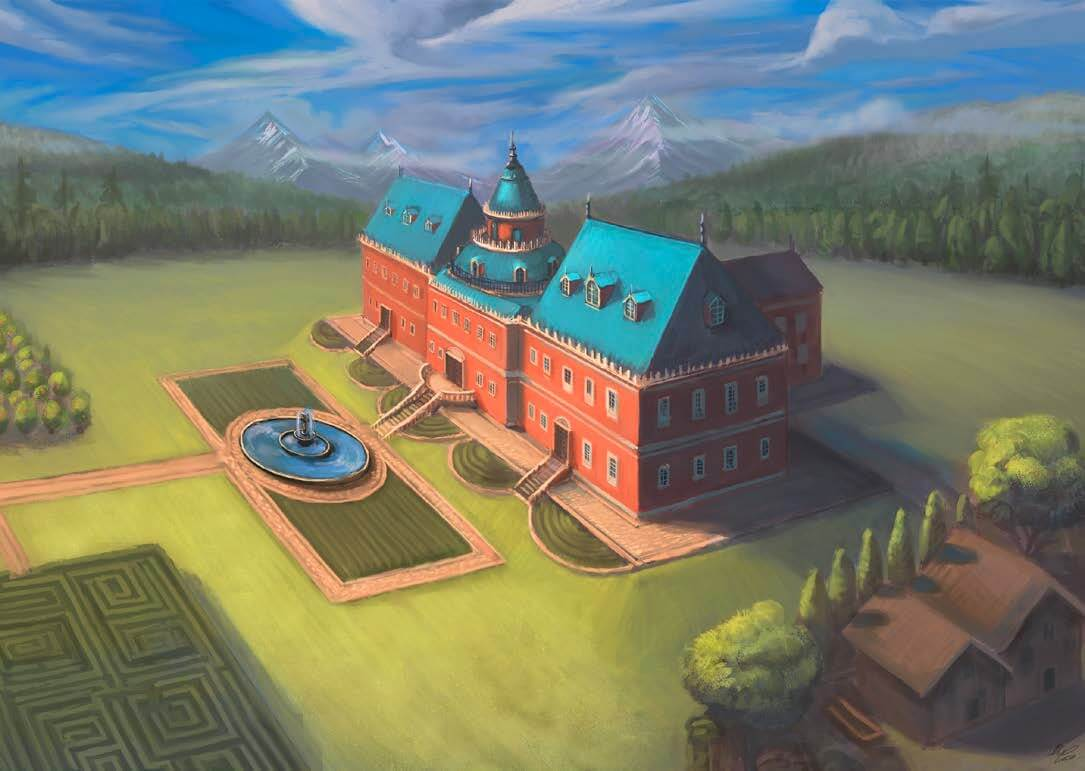
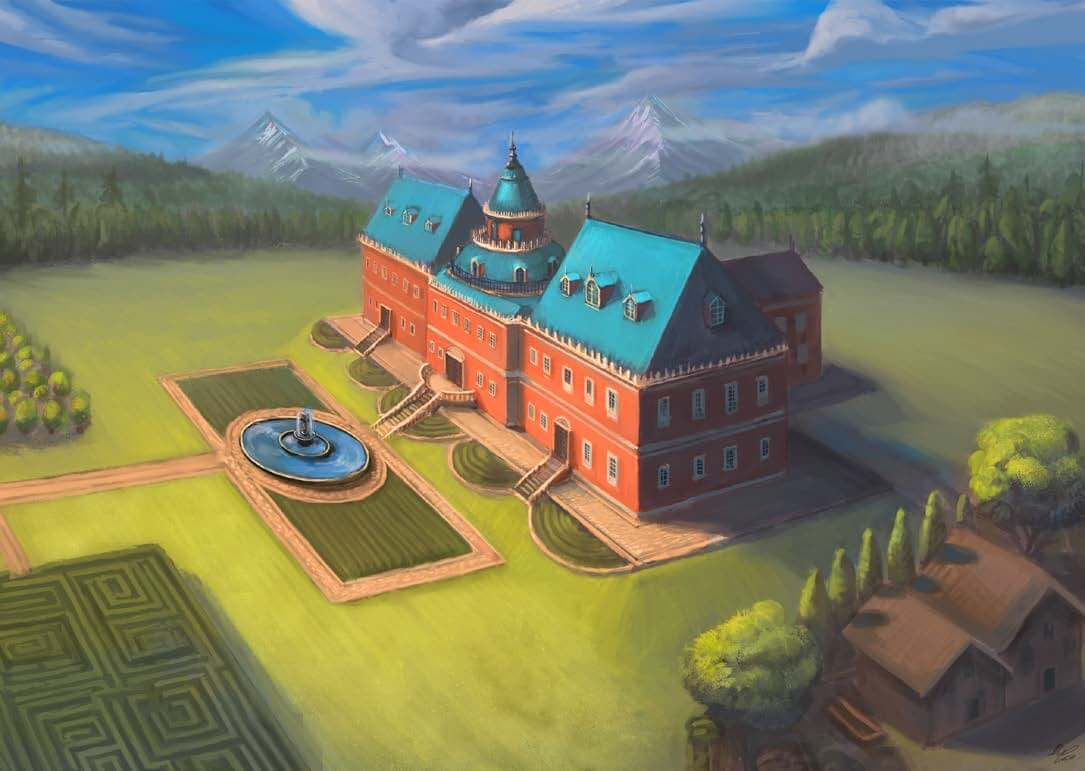
update hero images

diff --git a/war4crown/adventure.html b/war4crown/adventure.html
@@ -261,7 +261,7 @@
       </ul>
 
       <ul class="clearfix" class="clearfix" style="list-style-type: none;"><b><i>Experiment 3</i> Lotheed Family Halfling Servant – </b>Prompt: “How did Martella come to the Palace of Birdsong?”
-        <li style="display: none;"><img src="images/hero-palace-birdsong720.jpg" alt="Palace of Birdsong"></li>
+        <li style="display: none;"><img src="images/hero-palace-birdsong.jpg" alt="Palace of Birdsong"></li>
         <li style="display: none;"><br><b>4685 AR</b></li>
         <li style="display: none;">We hear birds chirping happily and the gentle hum of insects on a warm summer’s day. A light breeze gently rustles the leaves through the trees nearby while swans strut about the grounds looking for bird feed. The view fidgets sporadically as a horse slowly trots up the long drive. The rider calls out, <i>“Delivery for the lord of the house!” </i>After stepping forward slightly, the messenger finishes pulling up and spits on the halfling in front of him, <i>“Not for you, sneak-swipe, go get your master.”</i></li>
         <li style="display: none;">Brushing the spittle from their shirt, the image turns as the halfling dashes into the building and down the hallway to the back patio, stumbling slightly once or twice before reaching the rear door. Opening it slowly, we see a well-dressed man with greying light brown hair tied back at the nape of his neck, lounging on the patio of the immense palace. The man is wearing a pair of spectacles and is completely absorbed in a messy pile of accounting reports in front of him. He leans forward on his darkwood chair and brings a hand up to rub his chin thoughtfully as he considers the reports before him.</li>
